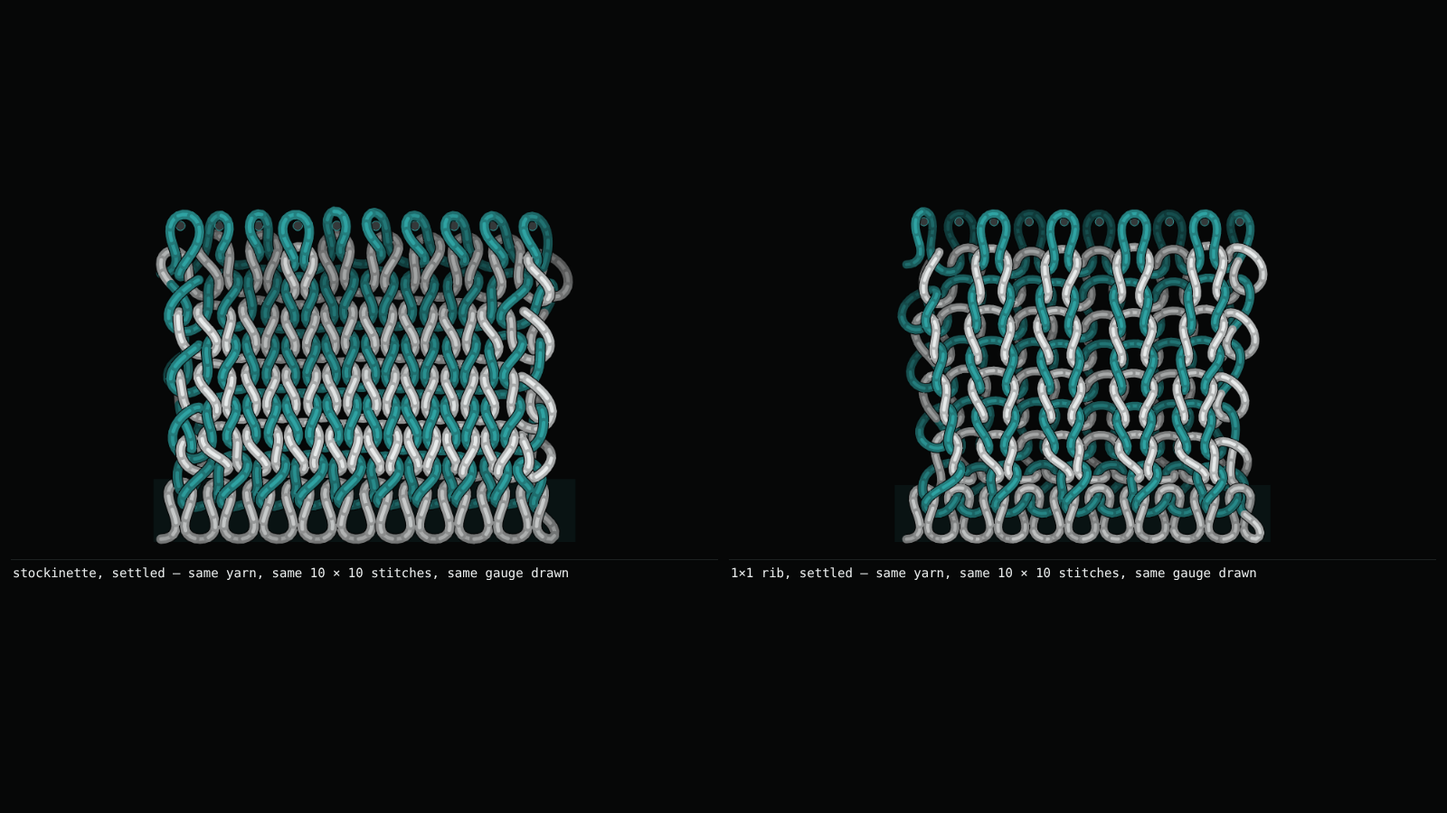
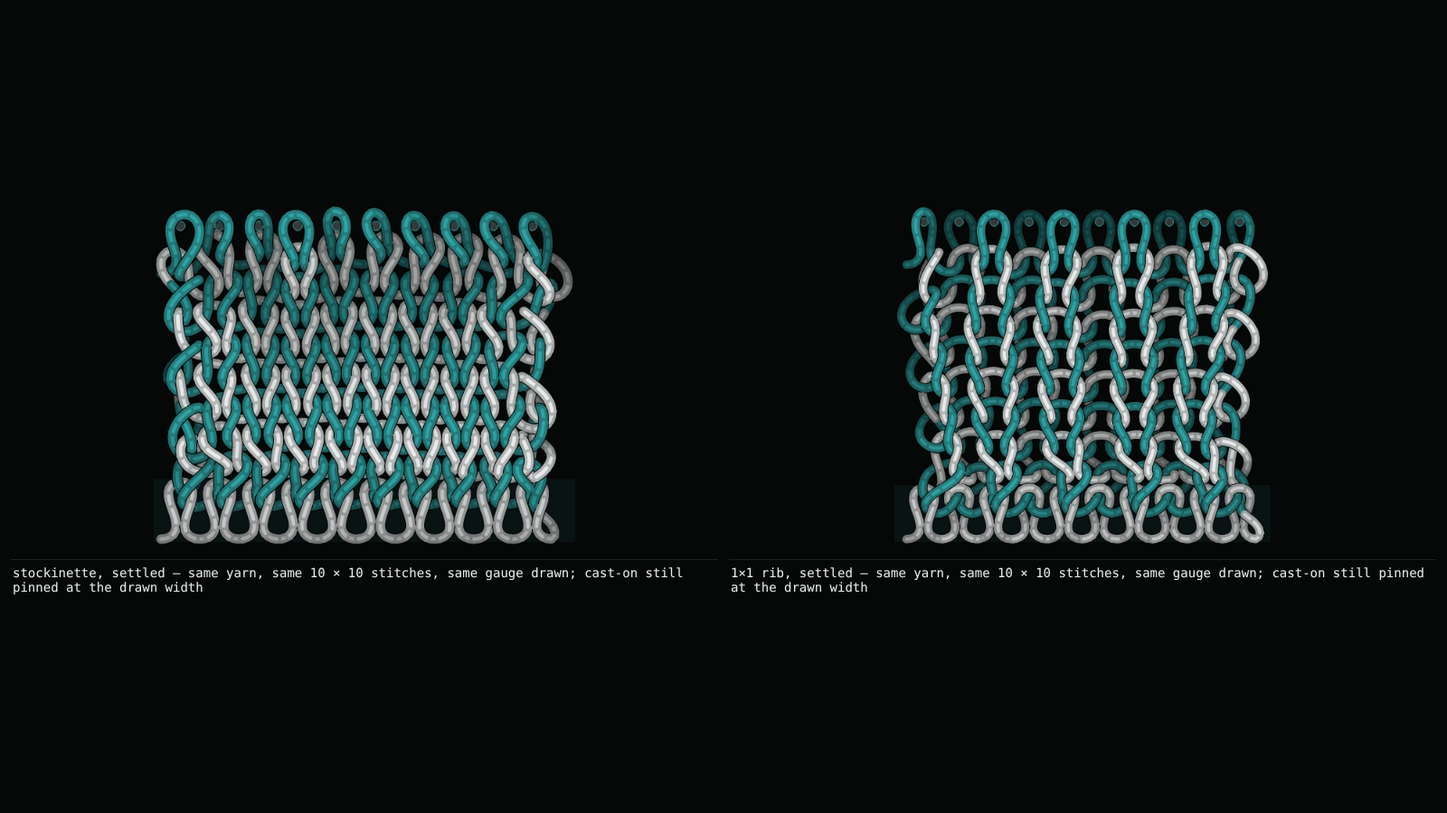
knit-lab: phase 3 doc (rib past 60% pending), screenshots
Claude-Session: https://claude.ai/code/session_019LvZMX3oJ6gMeQFziYqNcy

diff --git a/docs/knit-lab-spike.md b/docs/knit-lab-spike.md
@@ -1,4 +1,4 @@
-# Knit Lab — yarn-level knit feasibility spike (Oct 21, phase 2 the same day)
+# Knit Lab — yarn-level knit feasibility spike (Oct 21; phase 2 the same day, phase 3 Oct 21–22)
 
 `/knit-lab.html` (noindex, unlinked). Ten wales × ten courses of stockinette knitted flat from one
 yarn — plain, or with one eyelet row across the middle — the yarn a chain of points relaxed with XPBD,
@@ -6,7 +6,293 @@ settled, then **loaded to a load limit and unloaded**. Phase 1 asked whether the
 at interactive speed and whether the result behaves like a knit (yes, on the CPU, for 10 × 10).
 Phase 2 made the physics trustworthy before adding stitches: friction that behaves like yarn, a yarn
 that stays inextensible under load, a load–unload cycle, yarn overs and k2tog, and the simulation in a
-Web Worker. Phase 1's record is kept below the phase-2 section; where phase 2 overturned it, it says so.
+Web Worker. Phase 3 replaced the continuous pull with a stepped, quasi-static test, found why phase 2's
+friction was rate-dependent, added a pull across the courses, and purl, 1×1 rib and ssk. Each phase's
+record is kept below the next; where a later phase overturned an earlier one, it says so.
+
+## Phase 3 — quasi-static test, the course direction, purl / rib / ssk (Oct 21–22)
+
+**Outcome: not merged.** Gate Q's frictionless half fails (9.1% of the work lost against a 2% bar), the
+course-direction test blows up in the jam (gate I), and the step-size half of Q passes on this draw but
+replicas at fixed settings scatter more than the bar allows. ⟨RIB⟩ Every number below:
+`node tools/verify-knit-lab.mjs --browser --scale` on this container (Intel Xeon @ 2.10 GHz, 4 cores,
+Node 22), unless a section says otherwise. Model units throughout. Phase 2's record is below; where
+phase 3 overturned it, it says so there too.
+
+### 1. The stepped, quasi-static test
+
+`PROTOCOL: 'stepped'` (the default; `'continuous'` is phase 2's test, kept for comparison). The driven
+jaw moves one step — `STEP_EXT`, 1% of the gauge — at `STEP_SPEED` 0.5 d/s and stops. The swatch is
+then HELD, the stationary jaw's load averaged over windows of `STEP_WINDOW` (10) frames, and the step is
+recorded once, over the last window, **the two jaws read the same load and it is the load of the window
+before**, both within `STEP_TOL` (0.2%) of max(|load|, 1,500), or after 900 frames, counted
+unconverged. The first criterion is static equilibrium itself: nothing but the two jaws pulls along the
+test axis (the plates push only in z, the cast-on rail only in y and z, the comb's pins slide freely in
+x in a course test), so a swatch whose jaws disagree is still moving. Loading ends on a settled load
+within 3% of `LOAD_LIMIT`; unloading steps back to where the jaws were clamped. One point per settled
+step is logged and plotted.
+
+Four things had to be fixed before the protocol measured anything:
+
+- **The comb read low.** The tied tail's reaction was added to the pins' with the opposite sign
+  convention, so the comb under-read by twice the tail's share: held at +30% the bottom jaw read 346,543
+  and the comb 327,490. Fixed, they read 404,099 / 404,099. The bottom jaw — phase 2's load cell — was
+  never affected; the comb's preload control was, so the settled swatch differs slightly from phase 2's.
+- **The peak depended on the step.** Past the jam the load grows about exponentially (doubling every
+  1–2%), so the first step past the limit landed anywhere from 1.0 to 2.1 M, and the peak sets how much
+  work a cycle can lose. The last steps are shortened to the extension the last two steps' own growth
+  says reaches the limit (`approachStep`), and a loading move stops the frame either jaw reads the limit
+  (that step then ends the loading). Every wale run now peaks at 0.97–1.10 M.
+- **The move itself was too fast.** At 1.5 d/s a step's move still carried dynamics: 22.1% / 19.4% of
+  the work lost at 1% / 0.5% steps, against 25.0% / 23.6% at 0.5 d/s (μ 0.25, everything else equal).
+- **The gate's child processes cut their own output.** A run wrote ~100 KB of JSON and called
+  `process.exit()`; through a pipe that truncates it, and the parent died on the parse after two hours.
+  The child exits in the write's callback now.
+
+### 2. Why phase 2's friction was rate-dependent: no contact ever stayed stuck
+
+The brief: phase 2 lost 29.5% of the work at 1.5 d/s and 9.1% at 0.5 d/s; find the cause. Found by
+holding the swatch still: **at a fixed +25% with μ 0.25 the load climbed 319k → 467k in 1,500 frames and
+→ 3.8 M in 3,000 (RMS point speed 0.4 → 4.2 d/s); at +10% it held.** The jaws were not moving.
+
+The mechanism. Friction (`FRICTION_MODE 'substep'`, phase 2) cancels a contact's slip since the start
+of the substep, up to μ × its normal multiplier — inside the contact pass. The stretch solve runs LAST
+(it is the one met exactly) and slides the yarn along every contact to keep its length. So the slip
+friction sees in a substep is only the prediction, and the slide it should have stopped happens after
+it, every substep, unresisted. A stuck contact therefore creeps by one stretch-slide a substep, at a rate
+set by the TIME STEP, not by μ: the resistance a test sees depends on how fast it pulls against that
+creep (phase 2's rate dependence), and held in the jam the creep ratchets the knit tighter without end.
+Ruled out on that hold: more substeps (48 still climbed; 64 held at μ 0.25 and blew up at μ 0.5), more
+iterations (2 climbed, 3–4 crept), the closest-point solve on nearly parallel segments (no change),
+friction moved after the stretch solve (the swatch froze, then broke its own length), and under-relaxed
+friction (stable, but weaker than Coulomb and itself rate-dependent).
+
+The fix (`FRICTION_MODE 'memory'`, the default): each contact carries the slip it let through — measured
+at the END of the substep, after the stretch solve, at its own material points (s, t), so a contact that
+rolls accumulates nothing — and the next substep's friction cancels that together with its own slip, up
+to the same Coulomb cap. A contact that hits the cap is slipping and forgets it. **Held 600 frames at the
+wale test's peak (1.05 M), the load moves 0.006% (gate H); phase 2's friction, held the same way, climbs
+from 1.16 M to 2.82 M.**
+
+Friction makes the knit stiffer early, as it should: with static friction that really sticks, a swatch
+settled WITH friction carried stress frozen in from the drawn guess (soft region 18,300 per d, 32% of
+the work lost). So the swatch now settles frictionless (`SETTLE_FRICTION 0`, a wet relaxation) and
+friction comes on for the test; μ 0 and μ 0.25 start from the same swatch.
+
+### 3. Gate Q: rate-independent now, but not repeatable to 10%
+
+| run (μ 0.25 unless noted) | steps | lost | set | jam | peak |
+|---|---|---|---|---|---|
+| 1% steps, tol 0.2% (`plain`) | 61 | 24.7% | 7.64% | 23% | 1.05 M |
+| 0.5% steps | 117 | 23.6% | 8.14% | 23% | 1.01 M |
+| tol 0.05% | 59 | 22.7% | 7.68% | 22% | 0.98 M |
+| 0.5% steps, tol 0.05% | 119 | 24.6% | 7.49% | 22% | 1.10 M |
+| replica: preload × (1 + 1e-9) | 61 | 27.9% | 8.05% | 22% | 0.97 M |
+| replica: preload × (1 + 2e-9) | 61 | 24.1% | 7.65% | 22% | 0.98 M |
+| μ 0, 1% steps | 65 | **9.1%** | 3.22% | 23% | 0.97 M |
+| phase 2's test, 1.5 / 0.5 d/s | — | 31.3% / 6.2% | 7.0 / 3.0% | 21% | 1.0 M |
+| phase 2's test, μ 0 | — | 1.0% | 2.0% | 25% | 1.0 M |
+
+- **Step size and tolerance: spread 8.8% in loss and 8.7% in set — under the 10% bar.** The phase-2
+  test's 31.3% / 6.2% across speeds is the must-fail, and is rejected.
+- **But the same test, its preload moved by one part in a billion, scatters 16% in loss** (24.1–27.9%).
+  A first, uncapped set of three replicas read 21.6 / 25.0 / 26.6% (23%). The step / tolerance spread is
+  inside that scatter, so the pass is a draw, not a margin: with friction the knit's path through the
+  jam is chaotic and the work it loses varies run to run by more than the bar. Set is steadier (5–7%).
+- **Frictionless, the cycle loses 9.1%, not under 2%: gate Q FAILS here.** Next section.
+
+### 4. Frictionless: the knit has two shapes at the same extension
+
+Phase 2 read the frictionless remainder (4.5%) as solver dissipation, and the phase-2 test itself now
+reads 1.0% (it moves continuously at 1.5 d/s and never stops to settle). The stepped test does not
+remove it — it exposes it: **frictionless, it loses 9–16% of the work** (9.1% at 1% steps, 15.5% at 0.5%
+steps). It is not the hold: held 3,000 frames at +20%, the frictionless swatch rests at **62,309 on the
+way up and 55,439–55,711 on the way down**, both still (and 27,728 / 15,472 at 64 substeps, 29,808 /
+24,949 with the plates at ±2.5). Two equilibria at one extension. The two states differ by 1–5 d all
+over the swatch and the loop heads sit at different depths — many pressed against a plate in one state
+and not in the other: the stockinette between the plates curls and buckles out of plane, and that has
+more than one stable shape. Closer plates (±1.2) take the frictionless loss to 6.0%, not to zero. A
+frictionless knit with unilateral contacts can be multistable; this one is, and a quasi-static cycle
+that passes from one state to the other loses work without friction. **Not fixed, because nothing about
+it is wrong as mechanics**; the gate's premise (a frictionless cycle closes) does not hold for this
+boundary condition. What would test it: a swatch with no plates and some other way to stop the curl
+(gravity, a backing), or a frictionless cycle small enough to stay on one branch.
+
+### 5. Pulling across the courses
+
+`startTest('course')` (the page's "Pull across the courses"). Two stages, both in the sim:
+
+1. **The width is released** (`releaseWidth`, phase `freeing`). After the ordinary settle the cast-on
+   is on its jaw at the width it was DRAWN, which says nothing about the knit's own width. So the
+   cast-on moves onto a RAIL (each point keeps its y and z, free along x), the comb's pins slide freely
+   along x (a pin's push is shared between the pin and the yarn, the pin carrying mass 1), the comb
+   keeps holding the preload, and the swatch settles again — frictionless, like the first settle —
+   until the wale-centre span stops drifting. That span is the swatch's width at rest: **jersey 36.8 d
+   after 198 frames** (drawn at 37.0).
+2. **Side jaws grip the edge wales** (`clampSides`): every point of the first and last loop of every
+   course and every selvedge turn, plus the tied tail on its own side — 367 + 376 points on jersey. The
+   left jaw is fixed and is the load cell (its reaction along x); the right one is driven out along x by
+   the same stepped protocol. Top and bottom stay where the release left them (the comb at the preload,
+   the cast-on on its rail). The gauge is the distance between the two jaws: 37.6 d.
+
+The two side jaws agree at every converged step (the convergence criterion requires it): nothing else
+carries load along x. Early holds come fully to rest (RMS speed 0.000 d/s from +2%).
+
+**Jersey, wale against course (gate D passes):**
+
+| extension | 5% | 10% | 20% | 30% | 40% | 50% | 55% |
+|---|---|---|---|---|---|---|---|
+| along the wales | 20k | 33k | 123k | 1.05 M (limit) | | | |
+| across the courses | 9k | 17k | 34k | 54k | 89k | 171k | 570k |
+
+The jam (`findJam`: past 10%, where the tangent stiffness first reaches 10× the soft region's, 0.5–10%) comes at **23% along
+the wales and 50% across the courses**; the soft region, per unit strain and per d of fabric across the
+pull (so the two directions compare), is **6,972 along and 5,487 across (0.79×)**. Softer and jamming
+later across the courses: the loops' heads and sinkers straighten before anything binds.
+
+**Past the jam across the courses, friction ratchets and the run blows up (gate I fails).** The last
+settled step, 55.97%, read 912k; the next (0.19%) never settled: held with both jaws still, the load
+wandered at 0.76–0.98 M for ~140 frames, climbed to 1.17 M, then the yarn's strain jumped 0.65% → 8% in
+20 frames and the run reached 2.95 M and 54% strain (the 5% strain stop ends the loading only when a step
+is recorded). The unloading
+curve then lies ABOVE the loading one, which is the −825% "loss" the gate prints. Forked from that
+55.97% state and held 600 frames, jaws still:
+
+| held at 55.97% | load after 600 frames | strain | RMS speed |
+|---|---|---|---|
+| as shipped (memory friction, μ 0.25) | 0.91 → 2.03 M | 23% | 14 d/s |
+| 64 substeps a frame | → 10.9 M | 52% | 35 d/s |
+| 2 iterations a substep | → 3.84 M (then stuck) | 2.1% | 0 |
+| frictionless | → **0.267 M, steady** | 0.06% | 0.02 d/s |
+
+So it is friction, and more substeps make it WORSE — not a time-step artefact that refining would cure.
+Along the wales the same friction holds the jam still (gate H: 600 frames at 1.05 M, −0.006%). The
+difference is the load path: across the courses the yarn is pulled ALONG its own length round every
+loop, a capstan. The hypothesis, not isolated: friction stops the yarn sliding round the loop, the
+tension rises, the contact's normal multiplier rises with it, and that raises friction's own cap — a
+loop that position-based Coulomb friction, solved before the stretch, does not bound the way the real
+capstan law (T₂/T₁ ≤ e^{μθ}) does. **Not fixed**: a fix is a change to the friction model (a capstan-
+aware cap, or friction and stretch solved together), and it would re-open every friction number above.
+The frictionless state at the same extension holds 267k, so roughly two thirds of the 912k was being
+carried by friction.
+
+### 6. Purl, 1×1 rib and ssk — topology, nothing tuned
+
+- **Purl** is a loop pulled through its parent from the FRONT. In the record it is `kind: 'purl'` with
+  one parent; in the geometry it is the knit loop with its depth sign flipped (`sgn(id)` in
+  `buildYarn`): its legs go back through the parent and its head sits in front. The selvedge turn and
+  the cast-on take the sign of the loop they belong to. The solver never reads the record and did not
+  change.
+- **The linking check knows the sign** (`LINK_SIGN`): a knit half links its parent −1, a purl half +1.
+  Gate T: every leg of the rib's drawn start passes through its parent the right way; must-fail
+  `purl-drawn-knitwise` (the purl drawn with the knit sign) makes 45 loops wrong.
+- **1×1 rib** (`makeRib`): stockinette with every odd wale purl — k1, p1 across every course. Same
+  yarn, same 10 × 10 stitches, same drawn gauge as jersey; 3,648 points against 3,476 (18.24 d of yarn a
+  loop against 17.37: a purl next to a knit has to cross the fabric).
+- **ssk** is k2tog mirrored: the LEFT parent's head is drawn over the right one's, the new loop stands
+  on the RIGHT parent's wale, and the yarn over goes on the other side — `makeEyelet(…, 'ssk')`, course
+  5 = `k1, (yo, ssk) × 4, k1`. Gate O checks the decreases' order (the top parent's head in front; k2tog
+  leaning right, ssk left) on the drawn start, the settled swatch and after the test; must-fail
+  `decrease-head-not-moved`.
+
+### 7. What the new stitches do
+
+**1×1 rib against jersey, across the courses (gate R: the two halves, read separately):**
+
+- **At rest, rib draws in: 31.0 d wide against jersey's 36.8 (0.843×)**, both released from the same
+  drawn width (37 d) by the same frictionless width settle (rib in 502 frames, jersey 198). The bar was
+  ≤ 0.95×.
+- **Rib does not jam within the test's 60% range; jersey jams at 50%.** Rib reaches 60% at 119k — where
+  jersey is at 171k by 50% and 570k by 55% — with no jam by `findJam`'s definition, so the gate's ratio
+  is NaN and the check FAILS as written (the bar, ≥ 1.25× jersey's jam, is 62.5%, outside the range).
+  ⟨RIB150⟩
+- Rib's soft region per unit strain per d of height is 5,008 against jersey's 5,487 (0.91×).
+- The rib's cycle (to 60%, 119k) loses 73% of its small loading work with a 23% set — read nothing
+  into it: it never loaded the knit.
+
+Nothing was tuned for either result: rib is jersey's chart with every other wale's sign flipped.
+
+**ssk eyelets against k2tog eyelets (along the wales):**
+
+| | jam | soft region per d | lost | set | openings ≥ 1 d, settled / at +20% | loading ended on |
+|---|---|---|---|---|---|---|
+| plain | 23% | 8,417 | 24.7% | 7.6% | 0 / 0 | load (1.05 M) |
+| yo, k2tog | 47% | 5,499 | 60.4% | 34.5% | 4 / 5 | **extension** (60%, 818k) |
+| ssk, yo | 42% | 3,914 | 48.4% | 24.7% | **2** / 4 | load (0.93 M) |
+
+- Both decreases keep their recorded order through the test, and ssk leans left — except **one ssk,
+  settled, whose two parent heads sit level (−0.04 d), so which is on top is not decided there (gate O
+  FAILS on it)**; by the end of the test it is back on top (+0.03 d), and the other three are clearly
+  ordered throughout.
+- **The ssk row opens only 2 holes of radius ≥ 1 d at rest (gate E FAILS on it; 4 at +20%)**; k2tog's
+  opens 4. The ssk swatch is also the softer of the two and jams earlier. Whether that is the ssk itself
+  or the drawn start (the ssk's depth choreography is k2tog's mirrored, not re-swept) is not isolated.
+- **The k2tog eyelet swatch reaches the 60% extension cap at 818k, before the load limit (gate I
+  FAILS)**; its loss and set are therefore from a cycle that stopped short.
+
+### 8. Gate results
+
+`node tools/verify-knit-lab.mjs --browser --scale` (19 simulations, 4 at a time, 6,699 s), then
+re-judged with `--reuse` after the frictionless must-fail was corrected. **8 checks fail.** Every check
+has a must-fail, and every must-fail rejects.
+
+| gate | what | result |
+|---|---|---|
+| Q | μ 0.25: loss and set across step 1% / 0.5% × tolerance 0.2% / 0.05% | PASS — 8.9% / 8.6% spread (but replicas scatter 16%, §3) |
+| Q | μ 0: the stepped cycle loses under 2% | **FAIL — 9.1%** (§4) |
+| H | held 600 frames at the peak, the load stays put | PASS — −0.006% (phase 2's friction: +141%) |
+| T | each drawn start is its chart (plain, k2tog, ssk, rib) | PASS — 4 / 4; must-fails 8, 8, 45 loops wrong |
+| O | decreases keep their order (k2tog right, ssk left), drawn / settled / after | 5 / 6 — **FAIL: one ssk settled level (−0.04 d)** |
+| F | μ 0.25 still has a soft region before the jam | PASS — 1.94× the frictionless |
+| I | strain < 1% before the jam, every run | PASS — ≤ 0.08% |
+| I | no collapse past the jam | PASS — except **rib: no jam reached** |
+| I | the load limit, not a safety, ends the loading | **FAIL ×3** — k2tog eyelet: 60% extension; jersey course: strain stop (§5); rib course: 60% extension |
+| C | friction adds to the loop (μ 0.25 vs 0) | PASS — 24.7% vs 9.1%, set 7.64% vs 3.22% |
+| E | eyelet rows open (≥ 4 openings ≥ 1 d, settled and at +20%) | k2tog PASS (4 / 5); **ssk FAIL (2 / 4)** |
+| E | the eyelet swatches jam at a different extension | PASS — 47% and 42% against 23% |
+| D | jersey is softer and jams later across the courses | PASS — jam 50% vs 23%; 0.79× as stiff |
+| R | rib jams ≥ 1.25× later across the courses, and draws in ≤ 0.95× at rest | **FAIL as written** — no jam within 60% (§7); width 0.843× |
+| S | no pass-through (plain, eyelet, rib course; audited) | PASS — 0 deep overlaps; certificate 2.65 M / 2.65 M substeps |
+| W | the page keeps drawing while it settles (worker) | PASS — p95 33.4 ms, longest 66.7 (main thread: 166.7 / 199.9) |
+
+### 9. Size against speed (this solver, settling frames; not gated)
+
+`--scale`, stockinette N × N, settling, on this container (with the gate's four simulations running
+beside it, so read the ratios more than the absolutes):
+
+| swatch | points | contact pairs | ms a substep | ms a 32-substep frame | µs a point |
+|---|---|---|---|---|---|
+| 10 × 10 | 3,476 | 13,702 | 1.47 | 47 | 0.42 |
+| 20 × 20 | 13,781 | 56,241 | 6.73 | 215 | 0.49 |
+| 30 × 30 | 30,909 | 117,084 | 17.74 | 568 | 0.57 |
+| 40 × 40 | 54,861 | 188,108 | 33.21 | 1,063 | 0.61 |
+
+About linear in points, a little worse per point as the swatch grows (the contact list). The stepped
+test costs far more WALL time than the continuous one at the same solver speed: a 10 × 10 wale cycle is
+~61 steps of ~80 held frames (≈ 7,000 frames, 8–20 min in Node depending on load), a course cycle
+~26,000 frames (≈ 45 min), the audited rib course ≈ 110 min. 10 × 10 is still the only size that is
+interactive (~20 sim frames a second on one core); 20 × 20 is ~5.
+
+### 10. Screenshots
+
+`docs/img/knit-lab/`: `jersey-rib-settled.png` (stockinette and 1×1 rib settled, side by side, cast-on
+still pinned at the drawn width), `rib-mid-course-pull.png` (rib held at +30% across the courses),
+`course-plot.png` (rib and jersey along the courses, log load), `panel.png`. Phase 2's and phase 1's
+are kept.
+
+### 11. What is untested / not done (phase 3)
+
+- **The course direction past the jam** (§5): friction ratchets there; jersey's course cycle and its loss
+  are not meaningful past its last settled step (0.91 M at 56%).
+- **Repeatability**: one replica pair per settings is measured; a real error bar wants tens.
+- **Frictionless multistability** is diagnosed (two rest states at one extension) but not removed.
+- **Rib and ssk are checked against their charts on the drawn start only** (linking numbers); after the
+  start the pass-through certificate carries topology, as before.
+- **Purl-only fabric (reverse stockinette), seed, other ribs** are one-line charts and untested.
+- **The page's course test** runs the same code; it was driven once by the screenshot tool; the page's
+  numbers differ from the gate's in the last bits, as in phase 2.
+- **No CI** covers any knit-lab file; run the gate by hand (≈ 2 h on 4 cores, the audited rib course
+  pull being the longest run; `--reuse` re-judges a finished run's output in seconds).
 
 ## Phase 2 — what changed and what it measured
 
@@ -127,7 +413,7 @@ p95 < 60 and nothing over 100 ms; the worker's longest gap is closer to it than 
 performance work: a sim frame is still ~40–45 ms (1.3 ms a substep), so the swatch moves at ~22 frames
 a second of simulation while the page draws at its own rate.
 
-### Rate
+### Rate (superseded by phase 3 §2–§3)
 
 `--rates` (0.5 d/s instead of 1.5): plain μ 0.25 loses 9.1% with 4% set (29.5% / 8% at 1.5),
 frictionless 2.4% with 2% set (4.5% / 3%).
@@ -150,12 +436,12 @@ phase-1 `1-start.png` … `4-end-of-pull.png`.
 
 ### What is untested / not done (phase 2)
 
-- **Rate dependence of friction's loss** (above) — measured, not explained.
+- ~~**Rate dependence of friction's loss** (above) — measured, not explained.~~ Explained and fixed in phase 3 §2.
 - **Permanent set read off the curves, not off a released swatch**: releasing the comb to the preload
   after unloading was tried and the comb reading is unreliable in compression (the comb moved down
   while the bottom jaw read near zero), so it was dropped.
-- **Only the eyelet chart** exercises yo / k2tog; ssk is the same case with the list reversed and is
-  untested; increases (two children in one parent) are allowed by the record and never built.
+- ~~**Only the eyelet chart** exercises yo / k2tog; ssk is the same case with the list reversed and is
+  untested;~~ ssk built and gated in phase 3; increases (two children in one parent) are allowed by the record and never built.
 - **The decrease geometry is one sweep's optimum** at this gauge and yarn; another wale pitch may need
   the sweep re-run (the gate's linking check will say so).
 - **The page's drag-to-pull** goes through the worker and has no committed check.
@@ -166,14 +452,14 @@ phase-1 `1-start.png` … `4-end-of-pull.png`.
 | file | what |
 |---|---|
 | `knit-lab.html`, `knit-lab.css` | the page (site tokens, Field Notes chrome, `noindex`) |
-| `knit-lab.js` | the page: draws what the engine reports (2D canvas, depth-sorted shaded tubes), swatch choice, drag-to-pull, the load–unload plot + CSV |
+| `knit-lab.js` | the page: draws what the engine reports (2D canvas, depth-sorted shaded tubes), swatch choice (stockinette, k2tog / ssk eyelets, 1×1 rib), pull direction (along the wales / across the courses, side jaws drawn), drag-to-pull (wales only), the load–unload plot (settled steps) + CSV |
 | `knit-lab-engine.js`, `knit-lab-worker.js` | runs a `KnitSim` and reports by message; the worker hosts it (`#WORKER=0`: on the page's thread) |
-| `knit-lab-sim.js` | the simulator, pure (no DOM): initial geometry, XPBD constraints, jaws, the test protocol, certificate. `PARAMS` and `DECREASE_SHAPE` at the top hold every constant |
-| `knit-lab-topology.js` | the knit record (see below), `makeStockinette`, `makeEyelet` and the validator |
-| `knit-lab-analysis.js` | linking numbers, the jam, hysteresis and set, holes — read by the page and the gate |
-| `tools/verify-knit-lab.mjs` | every phase-2 number in this doc and its must-fails (`--browser` the worker gate, `--rates` the slow runs) |
-| `tools/shot-knit-lab.mjs` | the screenshots, through the real page in headless Chromium |
-| `docs/img/knit-lab/` | phase 2: both swatches settled and at +20%, the load–unload plot; phase 1: `1-start.png` … `4-end-of-pull.png` |
+| `knit-lab-sim.js` | the simulator, pure (no DOM): initial geometry (knit and purl), XPBD constraints, friction with slip memory, jaws (comb, cast-on, rail, side jaws), the stepped test, certificate. `PARAMS` and `DECREASE_SHAPE` at the top hold every constant |
+| `knit-lab-topology.js` | the knit record (see below), `makeStockinette` (any knit / purl per wale), `makeRib`, `makeEyelet` (k2tog or ssk) and the validator |
+| `knit-lab-analysis.js` | linking numbers (signed: knit −1, purl +1), the decreases' order, the jam, hysteresis and set (per settled step), holes — read by the page and the gate |
+| `tools/verify-knit-lab.mjs` | every phase-3 number in this doc and its must-fails (`--browser` the worker gate, `--scale` the size table, `--reuse <dir>` re-judges saved runs; ≈ 2 h on 4 cores) |
+| `tools/shot-knit-lab.mjs` | the screenshots, through the real page in headless Chromium (`--runs <gate out>` draws the course plot from the gate's runs; `--phase2` the phase-2 set) |
+| `docs/img/knit-lab/` | phase 3: `jersey-rib-settled.png`, `rib-mid-course-pull.png`, `course-plot.png`, `panel.png`; phase 2: both swatches settled and at +20%, the load–unload plot; phase 1: `1-start.png` … `4-end-of-pull.png` |
 
 `textile-knit-loops.js` is imported (its `loopPoint` jersey curve gives the starting x/y) and not
 modified. `textile-stretch-simulator.*` is untouched. Nothing from Asunder Knit or any commercial
@@ -186,8 +472,9 @@ order — and `loops`, each `{ id, course, slot, kind, through }`. **`through` i
 the ids of the loops of the previous course this loop was pulled through.
 
 - plain knit: `through: [a]`
+- purl (phase 3): `kind: 'purl'`, `through: [a]` — pulled through from the front
 - yarn over: `through: []`
-- k2tog / ssk: `through: [a, b]`, order = which parent lies on top
+- k2tog / ssk: `through: [a, b]`, order = which parent lies on top (k2tog: the right one; ssk: the left)
 - cast-on: course 0, `through: []`
 
 `validateTopology()` refuses a parent outside the previous course, a loop nothing holds (it would
